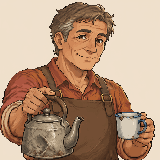
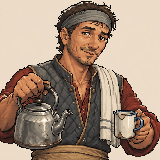
Redraw the Dema and Sen portraits to match their sprites
Claude-Session: https://claude.ai/code/session_01H8JDTPYztrZvUL5HBCK6eR

diff --git a/prototypes/topdown/tools/portraits_b.py b/prototypes/topdown/tools/portraits_b.py
@@ -44,12 +44,10 @@ CAST = {
  'enemy.slinger': ('enemy.slinger.png', 'the same bandit slinger', 'his red hood and red scarf, dark hair and focused face, with the shoulders and clothes running off the bottom and side edges so the picture fills all four corners of the square'),
  'enemy.thug': ('enemy.thug.png', 'the same scruffy bandit', 'his red bandana, dark hair, short goatee, crooked grin, and torn red vest'),
  'enemy.grumbler': ('enemy.grumbler.png', 'the same steam-powered tracked drilling machine', 'its brass and rust-red boiler body, glowing amber window, caterpillar tracks and big grey drill cone, no person'),
- 'dema': ('mira.png', 'a middle-aged woman, the road keeper',
-          'her strong build and a practical, slightly exasperated but kind face; she is a new person: tan skin, dark hair with grey streaks tied back under a faded blue headscarf, '
-          'sleeves rolled to the elbow on a plain brown and green work tunic, a damp washing cloth over one shoulder, one hand on her hip, a small turtle-duck ducking behind her shoulder'),
- 'sen': ('gao.png', 'a gentle middle-aged tea keeper',
-         'his warm pose; he is a new person: clean-shaven, thin kind face with laugh lines, short grey-brown hair, plain brown apron over a rust-orange shirt with rolled sleeves, '
-         'holding out a dented tin kettle in one hand and a chipped cup with a blue handle in the other, offering company with a patient smile'),
+ 'dema': ('mira.png', 'a weathered woman in her forties, the road keeper',
+          'her strong build; she is a new person: tan weathered skin with laugh lines, a wide conical straw hat shading her face, an oatmeal-coloured tunic with the sleeves rolled to the elbow, a rust-orange sash at the waist, a warm practical expression with a small knowing smile'),
+ 'sen': ('gao.png', 'a tall lanky man in his thirties, the tea keeper',
+         'his friendly pose; he is a new person: narrow kind face with a slightly wry smile, short dark hair under a grey headband, a slate-grey quilted vest over a brick-red shirt, a white towel over one shoulder, a tan sash, holding out a dented tin kettle in one hand and a chipped cup with a blue handle in the other'),
 }
 
 

diff --git a/docs/art/prompts/portraits/dema.md b/docs/art/prompts/portraits/dema.md
@@ -9,18 +9,18 @@
 
 ## Who
 
-A middle-aged woman with tan skin and grey-streaked dark hair under a faded blue headscarf, a plain brown and green work tunic with the sleeves rolled, a damp washing cloth over one shoulder, one hand on her hip and a small turtle-duck behind her shoulder. Practical, slightly exasperated, kind.
+A weathered woman in her forties with tan skin, a wide conical straw hat, an oatmeal tunic with the sleeves rolled to the elbow and a rust-orange sash. Warm, practical, a small knowing smile.
 
 ## Signature
 
-The headscarf, the washing cloth and the duck.
+The straw hat and the rust-orange sash.
 
 ## Prompt
 
 Style B (ADR 0107) is made with `prototypes/topdown/tools/portraits_b.py`; the `dema` entry in its `CAST` table is the prompt of record.
 
 ```text
-A middle-aged woman with tan skin and grey-streaked dark hair under a faded blue headscarf, a plain brown and green work tunic with the sleeves rolled, a damp washing cloth over one shoulder, one hand on her hip and a small turtle-duck behind her shoulder. Practical, slightly exasperated, kind.
+A weathered woman in her forties with tan skin, a wide conical straw hat, an oatmeal tunic with the sleeves rolled to the elbow and a rust-orange sash. Warm, practical, a small knowing smile.
 ```
 
 ## Negative prompt
@@ -35,4 +35,4 @@ Re-run `portraits_b.py --seed N` and pick by the checklist.
 
 ## Check
 
-Run `checklist.md` before committing, at 3x. For this portrait in particular: The headscarf, the washing cloth and the duck.
+Run `checklist.md` before committing, at 3x. For this portrait in particular: The straw hat and the rust-orange sash.

diff --git a/docs/art/prompts/portraits/sen.md b/docs/art/prompts/portraits/sen.md
@@ -9,18 +9,18 @@
 
 ## Who
 
-A gentle middle-aged man with laugh lines and short grey-brown hair, a brown apron over a rust-orange shirt, holding out a dented tin kettle and a chipped cup with a blue handle. Patient, offering company.
+A tall lanky man in his thirties with a kind, slightly wry face, a grey headband, a slate-grey quilted vest over a brick-red shirt, a white towel on one shoulder and a tan sash, holding out a dented tin kettle and a chipped cup with a blue handle.
 
 ## Signature
 
-The kettle and the blue-handled cup.
+The grey headband, the towel and the blue-handled cup.
 
 ## Prompt
 
 Style B (ADR 0107) is made with `prototypes/topdown/tools/portraits_b.py`; the `sen` entry in its `CAST` table is the prompt of record.
 
 ```text
-A gentle middle-aged man with laugh lines and short grey-brown hair, a brown apron over a rust-orange shirt, holding out a dented tin kettle and a chipped cup with a blue handle. Patient, offering company.
+A tall lanky man in his thirties with a kind, slightly wry face, a grey headband, a slate-grey quilted vest over a brick-red shirt, a white towel on one shoulder and a tan sash, holding out a dented tin kettle and a chipped cup with a blue handle.
 ```
 
 ## Negative prompt
@@ -35,4 +35,4 @@ Re-run `portraits_b.py --seed N` and pick by the checklist.
 
 ## Check
 
-Run `checklist.md` before committing, at 3x. For this portrait in particular: The kettle and the blue-handled cup.
+Run `checklist.md` before committing, at 3x. For this portrait in particular: The grey headband, the towel and the blue-handled cup.
